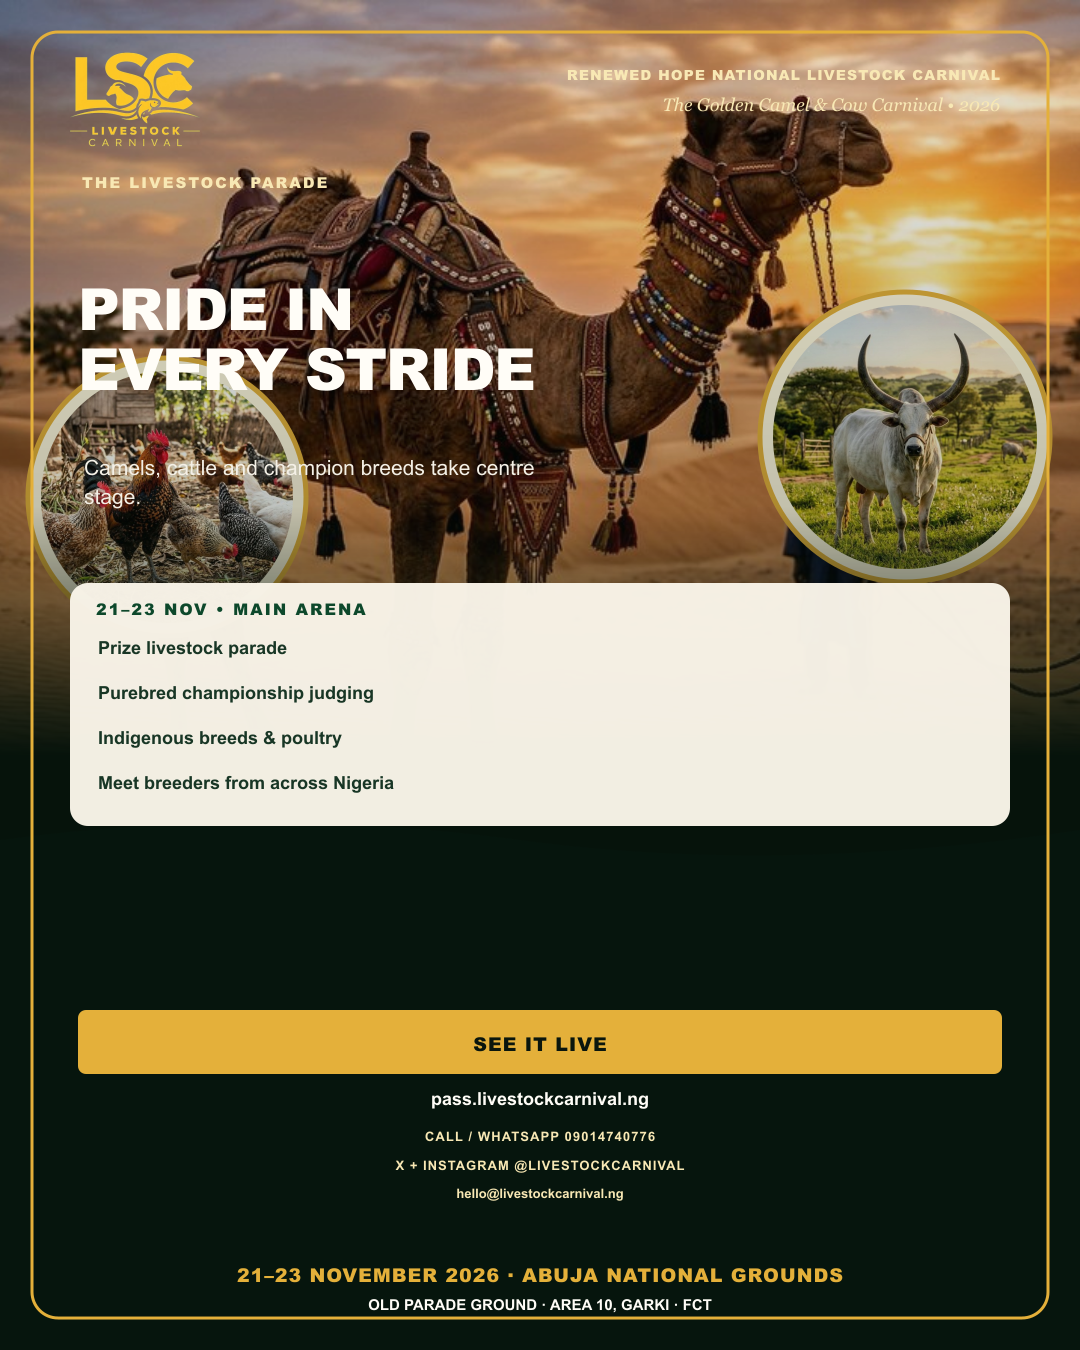
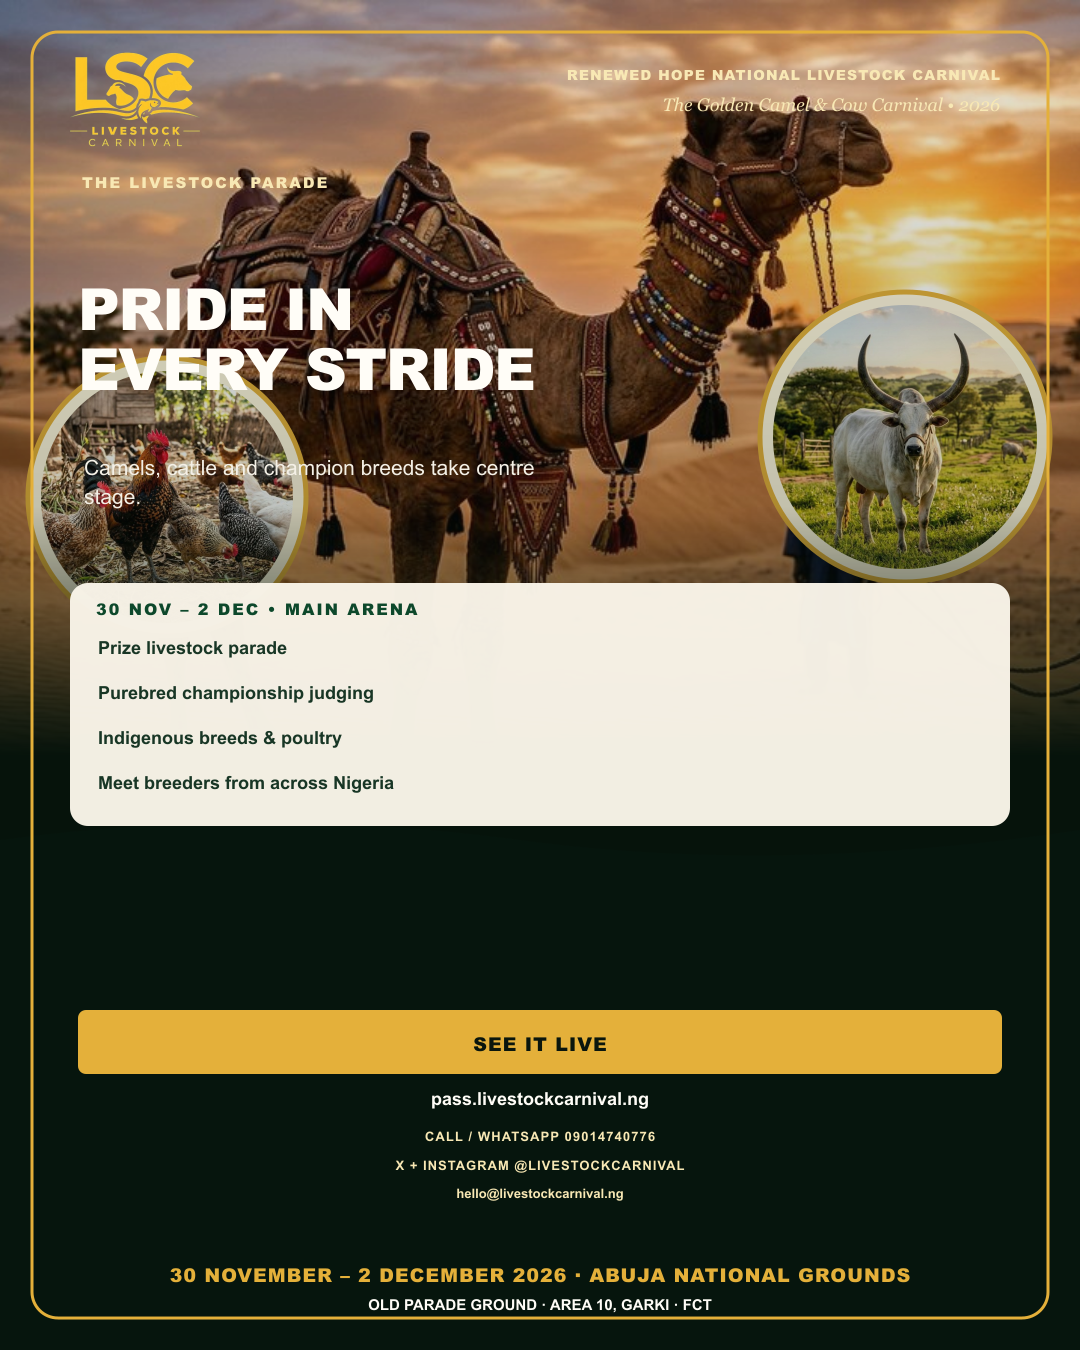
Correct remaining carnival date references

Changed region(s): [[0.1528, 0.9333, 0.8556, 0.9644], [0.0917, 0.4356, 0.3972, 0.4667]]

diff --git a/src/components/ScheduleVenueExperience.tsx b/src/components/ScheduleVenueExperience.tsx
@@ -5,7 +5,7 @@ import Image from 'next/image';
 import { MapContainer, TileLayer, Marker, Popup, Tooltip, useMap } from 'react-leaflet';
 import { divIcon } from 'leaflet';
 import { Clock3, MapPin, Navigation, CalendarPlus, Map, List, ExternalLink } from 'lucide-react';
-import { CARNIVAL_PROGRAM, type DayProgram, type TimeBlock } from '@/data/carnivalProgram';
+import { CARNIVAL_PROGRAM, normalizeCarnivalProgram, type DayProgram, type TimeBlock } from '@/data/carnivalProgram';
 import { DEFAULT_EVENT_VENUES, DEFAULT_VENUES, type CarnivalVenue, venueColor } from '@/data/venueCatalog';
 import { generateICS } from '@/lib/ics';
 import { supabase } from '@/lib/supabase/client';
@@ -101,7 +101,7 @@ export default function ScheduleVenueExperience({ initialView = 'schedule' }: { 
     void supabase.from('site_page_content').select('content').eq('page_key', 'schedule').eq('status', 'published').maybeSingle().then(({ data }) => {
       if (!active || !data?.content || typeof data.content !== 'object') return;
       const content = data.content as ScheduleContent;
-      if (content.days && Object.keys(content.days).length) setDays(content.days);
+      if (content.days && Object.keys(content.days).length) setDays(normalizeCarnivalProgram(content.days));
       const normalizedVenues = normalizeVenues(content.venues);
       const normalizedEventVenues = normalizeEventVenues(content.eventVenues);
       if (normalizedVenues.length) setVenues(normalizedVenues);
@@ -165,7 +165,7 @@ export default function ScheduleVenueExperience({ initialView = 'schedule' }: { 
 
   const calendar = (event: TimeBlock) => {
     const day = eventEntries.find((entry) => entry.event.id === event.id)?.day ?? currentDay;
-    const date = new Date(2026, 10, 20 + day.dayNumber);
+    const date = [null, new Date(2026, 10, 30), new Date(2026, 11, 1), new Date(2026, 11, 2)][day.dayNumber] ?? new Date(2026, 10, 30);
     const startIso = `${date.getFullYear()}-${String(date.getMonth() + 1).padStart(2, '0')}-${String(date.getDate()).padStart(2, '0')}T09:00:00+01:00`;
     const endIso = `${date.getFullYear()}-${String(date.getMonth() + 1).padStart(2, '0')}-${String(date.getDate()).padStart(2, '0')}T12:00:00+01:00`;
     generateICS({ id: event.id, title: event.heading, venue: (eventVenues[event.id] || []).map((id) => venues.find((venue) => venue.id === id)?.name).filter(Boolean).join(', ') || event.location, description: event.details, startIso, endIso });

diff --git a/src/data/carnivalProgram.ts b/src/data/carnivalProgram.ts
@@ -18,11 +18,11 @@ export interface DayProgram {
 export const CARNIVAL_PROGRAM: Record<string, DayProgram> = {
   // =========================================================================
   // DAY 1: Grand Opening, Presidential Commission & Livestock Parade
-  // Date: 21 November 2026
+  // Date: 30 November 2026
   // =========================================================================
   day1: {
     dayNumber: 1,
-    dateString: "Saturday, 21 November 2026",
+    dateString: "Monday, 30 November 2026",
     title: "Grand Opening, Presidential Commission & Livestock Parade",
     timeBlocks: [
       {
@@ -85,11 +85,11 @@ export const CARNIVAL_PROGRAM: Record<string, DayProgram> = {
 
   // =========================================================================
   // DAY 2: Agro-Investment Summit, Pastoralist Forum & Concert Night 1
-  // Date: 22 November 2026
+  // Date: 1 December 2026
   // =========================================================================
   day2: {
     dayNumber: 2,
-    dateString: "Sunday, 22 November 2026",
+    dateString: "Tuesday, 1 December 2026",
     title: "Agro-Investment Summit, Pastoralist Forum & Concert Night 1",
     timeBlocks: [
       {
@@ -153,11 +153,11 @@ export const CARNIVAL_PROGRAM: Record<string, DayProgram> = {
 
   // =========================================================================
   // DAY 3: Commercial B2B Matchmaking, Breed Awards & Grand Finale Concert
-  // Date: 23 November 2026
+  // Date: 2 December 2026
   // =========================================================================
   day3: {
     dayNumber: 3,
-    dateString: "Monday, 23 November 2026",
+    dateString: "Wednesday, 2 December 2026",
     title: "Commercial B2B Matchmaking, Breed Awards & Grand Finale Concert",
     timeBlocks: [
       {
@@ -219,3 +219,16 @@ export const CARNIVAL_PROGRAM: Record<string, DayProgram> = {
     ]
   }
 };
+
+const OFFICIAL_CARNIVAL_DATES: Record<string, string> = {
+  day1: 'Monday, 30 November 2026',
+  day2: 'Tuesday, 1 December 2026',
+  day3: 'Wednesday, 2 December 2026',
+};
+
+export function normalizeCarnivalProgram(days: Record<string, DayProgram>): Record<string, DayProgram> {
+  return Object.fromEntries(Object.entries(days).map(([key, day]) => [
+    key,
+    OFFICIAL_CARNIVAL_DATES[key] ? { ...day, dateString: OFFICIAL_CARNIVAL_DATES[key] } : day,
+  ]));
+}

diff --git a/src/components/ScheduleTab.tsx b/src/components/ScheduleTab.tsx
@@ -3,7 +3,7 @@
 import { useState, useMemo, useEffect } from 'react';
 import { MapPin, Calendar, Filter, CheckCircle2, Clock } from 'lucide-react';
 import { motion, AnimatePresence } from 'framer-motion';
-import { CARNIVAL_PROGRAM, DayProgram, TimeBlock } from '@/data/carnivalProgram';
+import { CARNIVAL_PROGRAM, DayProgram, TimeBlock, normalizeCarnivalProgram } from '@/data/carnivalProgram';
 import { generateICS } from '@/lib/ics';
 import { supabase } from '@/lib/supabase/client';
 
@@ -18,7 +18,7 @@ export default function ScheduleTab() {
       if (!active || !data?.content || typeof data.content !== 'object') return;
       const days = (data.content as { days?: Record<string, DayProgram> }).days;
       if (days && Object.keys(days).length) {
-        setScheduleDays(days);
+        setScheduleDays(normalizeCarnivalProgram(days));
         setSelectedDayKey(Object.keys(days)[0]);
       }
     });
@@ -197,8 +197,8 @@ export default function ScheduleTab() {
                       title: block.heading,
                       venue: block.location,
                       description: `${block.details}\n\nKey Highlights:\n${block.activities.map((a) => `- ${a}`).join('\n')}`,
-                      startIso: `2026-11-2${currentDayProgram.dayNumber}T09:00:00+01:00`,
-                      endIso: `2026-11-2${currentDayProgram.dayNumber}T12:00:00+01:00`,
+                      startIso: `${["", "2026-11-30", "2026-12-01", "2026-12-02"][currentDayProgram.dayNumber]}T09:00:00+01:00`,
+                      endIso: `${["", "2026-11-30", "2026-12-01", "2026-12-02"][currentDayProgram.dayNumber]}T12:00:00+01:00`,
                     })
                   }
                   className="inline-flex items-center gap-2 px-4 py-2.5 bg-[#FBFBFA] border border-slate-200 hover:border-[#B8D8C5] hover:bg-[#D8EADF]/30 text-[#1E4D38] text-xs font-bold uppercase tracking-wider rounded-xl transition-all shadow-sm"

diff --git a/src/components/admin/VenueCatalogEditor.tsx b/src/components/admin/VenueCatalogEditor.tsx
@@ -5,7 +5,7 @@ import Image from 'next/image';
 import { MapContainer, TileLayer, Marker, useMapEvents } from 'react-leaflet';
 import { divIcon } from 'leaflet';
 import { ExternalLink, ImagePlus, MapPin, Plus, Save, Trash2 } from 'lucide-react';
-import { CARNIVAL_PROGRAM, type DayProgram } from '@/data/carnivalProgram';
+import { CARNIVAL_PROGRAM, normalizeCarnivalProgram, type DayProgram } from '@/data/carnivalProgram';
 import { DEFAULT_EVENT_VENUES, DEFAULT_VENUES, type CarnivalVenue, venueColor } from '@/data/venueCatalog';
 import { DEFAULT_SITE_CONTENT } from '@/lib/siteContent';
 import { supabase } from '@/lib/supabase/client';
@@ -42,10 +42,11 @@ export default function VenueCatalogEditor({ onChooseImage }: { onChooseImage: (
       if (error) setMessage(`Could not load the saved schedule: ${error.message}`);
       if (data?.content && typeof data.content === 'object') {
         const saved = data.content as JsonRecord;
-        setBaseContent(saved);
         const defaults = DEFAULT_SITE_CONTENT.schedule as unknown as Content;
+        const normalizedDays = saved.days ? normalizeCarnivalProgram(saved.days as Content['days']) : defaults.days;
+        setBaseContent({ ...saved, days: normalizedDays });
         const next: Content = {
-          days: (saved.days as Content['days']) || defaults.days,
+          days: normalizedDays,
           venues: (saved.venues as CarnivalVenue[]) || defaults.venues,
           eventVenues: (saved.eventVenues as Record<string, string[]>) || defaults.eventVenues,
         };

diff --git a/src/app/page.tsx b/src/app/page.tsx
@@ -101,7 +101,7 @@ export default function Home() {
         <div aria-hidden="true" className="absolute inset-0 bg-[radial-gradient(ellipse_at_50%_0%,rgba(228,176,58,0.09)_0%,transparent_70%)]" />
         <div className="relative z-10 mx-auto flex max-w-5xl flex-col items-center px-6 text-center sm:px-10">
           <span className="mb-4 inline-flex items-center gap-3 text-[10px] font-extrabold uppercase tracking-[0.2em] text-[#E4B03A] sm:text-xs sm:tracking-[0.26em]">
-            <span className="h-px w-6 bg-[#E4B03A]/60 sm:w-8" />21 – 23 November 2026 · Abuja National Grounds<span className="h-px w-6 bg-[#E4B03A]/60 sm:w-8" />
+            <span className="h-px w-6 bg-[#E4B03A]/60 sm:w-8" />30 November – 2 December 2026 · Abuja National Grounds<span className="h-px w-6 bg-[#E4B03A]/60 sm:w-8" />
           </span>
           <h2 className="mb-5 max-w-3xl text-2xl font-extrabold leading-tight tracking-tight sm:text-4xl md:text-5xl">Join the Grand Celebration of Culture, Agribusiness &amp; Heritage</h2>
           <p className="mb-8 max-w-2xl text-sm leading-relaxed text-gray-300 sm:text-base">Complimentary gate passes are available for all delegates, visitors, and families. Secure your passes and explore vendor booth bookings.</p>

diff --git a/supabase/functions/push-notifications/index.ts b/supabase/functions/push-notifications/index.ts
@@ -150,7 +150,7 @@ Deno.serve(async (request: Request) => {
   if (action === 'cleanup_accreditations') {
     const secret = request.headers.get('Authorization')?.replace(/^Bearer\s+/i, '');
     if (!cronSecret || !secret || secret !== cronSecret || request.headers.get('x-push-cron') !== 'true') return respond(403, { error: 'Scheduled cleanup is not authorized.' }, origin);
-    if (Date.now() < Date.parse('2026-11-24T00:00:00+01:00')) return respond(200, { deleted: 0, reason: 'The event has not ended.' }, origin);
+    if (Date.now() < Date.parse('2026-12-03T00:00:00+01:00')) return respond(200, { deleted: 0, reason: 'The event has not ended.' }, origin);
     const { data: rows, error } = await adminClient.from('accreditations').select('id,file_path');
     if (error) return respond(500, { error: 'Could not load accreditation records for retention cleanup.' }, origin);
     let deleted = 0;

diff --git a/src/lib/siteContent.ts b/src/lib/siteContent.ts
@@ -16,7 +16,7 @@ export const DEFAULT_SITE_CONTENT: Record<string, Record<string, unknown>> = {
   schedule: {
     eyebrow: 'Carnival Program',
     title: '3-Day Official Carnival Program',
-    intro: '21 – 23 November 2026 • Old Parade Ground, Area 10, Garki, Abuja. Explore the ceremonies, breed judging, business forums, and live performances planned across all three days.',
+    intro: '30 November – 2 December 2026 • Old Parade Ground, Area 10, Garki, Abuja. Explore the ceremonies, breed judging, business forums, and live performances planned across all three days.',
     days: CARNIVAL_PROGRAM,
     venues: DEFAULT_VENUES,
     eventVenues: DEFAULT_EVENT_VENUES,

diff --git a/src/components/WhatToExpect.tsx b/src/components/WhatToExpect.tsx
@@ -31,7 +31,7 @@ const CARNIVAL_EXPECTATIONS: ExpectationItem[] = [
     summary: 'Witness over 200 ceremonial cavalry war stallions, traditional Northern horsemen, camel pageantry, and royal racing displays in a breathtaking celebration of national heritage.',
     image: '/assets/home/story-equestrian-durbar-parade.jpg',
     location: 'Zone 3: Central Track & Oval',
-    dateBadge: 'Saturday, 21 Nov 2026',
+    dateBadge: 'Monday, 30 Nov 2026',
     ctaText: 'Explore Equestrian Schedule',
     ctaLink: '/schedule',
     activities: [

diff --git a/src/app/fashion-parade/page.tsx b/src/app/fashion-parade/page.tsx
@@ -141,7 +141,7 @@ export default function FashionParadePage() {
                   </div>
                   <div>
                     <p className="text-[10px] font-bold uppercase tracking-wider text-[#6B7280]">Festival Dates</p>
-                    <p className="text-xs sm:text-sm font-black text-[#0F4A2F]">21 – 23 Nov 2026</p>
+                    <p className="text-xs sm:text-sm font-black text-[#0F4A2F]">30 Nov – 2 Dec 2026</p>
                   </div>
                 </div>
 

diff --git a/livestock_cultural_fashion_parade.html b/livestock_cultural_fashion_parade.html
@@ -174,7 +174,7 @@
             </div>
             <div>
               <p class="text-[10px] font-bold uppercase tracking-wider text-slate-muted">Festival Dates</p>
-              <p class="text-xs sm:text-sm font-black text-forest">21 – 23 Nov 2026</p>
+              <p class="text-xs sm:text-sm font-black text-forest">30 Nov – 2 Dec 2026</p>
             </div>
           </div>
 

diff --git a/public/livestock_cultural_fashion_parade.html b/public/livestock_cultural_fashion_parade.html
@@ -174,7 +174,7 @@
             </div>
             <div>
               <p class="text-[10px] font-bold uppercase tracking-wider text-slate-muted">Festival Dates</p>
-              <p class="text-xs sm:text-sm font-black text-forest">21 – 23 Nov 2026</p>
+              <p class="text-xs sm:text-sm font-black text-forest">30 Nov – 2 Dec 2026</p>
             </div>
           </div>
 

diff --git a/MEDIA_CONTEXT.md b/MEDIA_CONTEXT.md
@@ -4,7 +4,7 @@ This document is an official orientation guide for journalists, media partners, 
 
 **Document Date:** October 2026  
 **Event Name:** Renewed Hope National Livestock Carnival 2026 (Golden Camel & Cow Carnival)  
-**Official Event Dates:** 21 – 23 November 2026  
+**Official Event Dates:** 30 November – 2 December 2026
 **Primary Venue:** Old Parade Ground, Area 10, Garki, Abuja, FCT, Nigeria  
 **Official Portal:** [https://livestockcarnival.ng](https://livestockcarnival.ng)  
 **Public Media Center:** [https://livestockcarnival.ng/media](https://livestockcarnival.ng/media)  
@@ -38,7 +38,7 @@ The **Renewed Hope National Livestock Carnival 2026** is the flagship national c
 
 ## 2. Key Event Information & Schedule Highlights
 
-- **Event Window:** Saturday, 21 November 2026 – Monday, 23 November 2026
+- **Event Window:** Monday, 30 November 2026 – Wednesday, 2 December 2026
 - **Location & Venue:** Old Parade Ground, Area 10, Garki, Abuja, FCT, Nigeria (`/schedule#map`)
 - **Key Tracks & Arenas:**
   - **Main Grand Arena**: Opening Ceremonies, Cultural Fashion Parades, Presidential & Ministerial Addresses.
